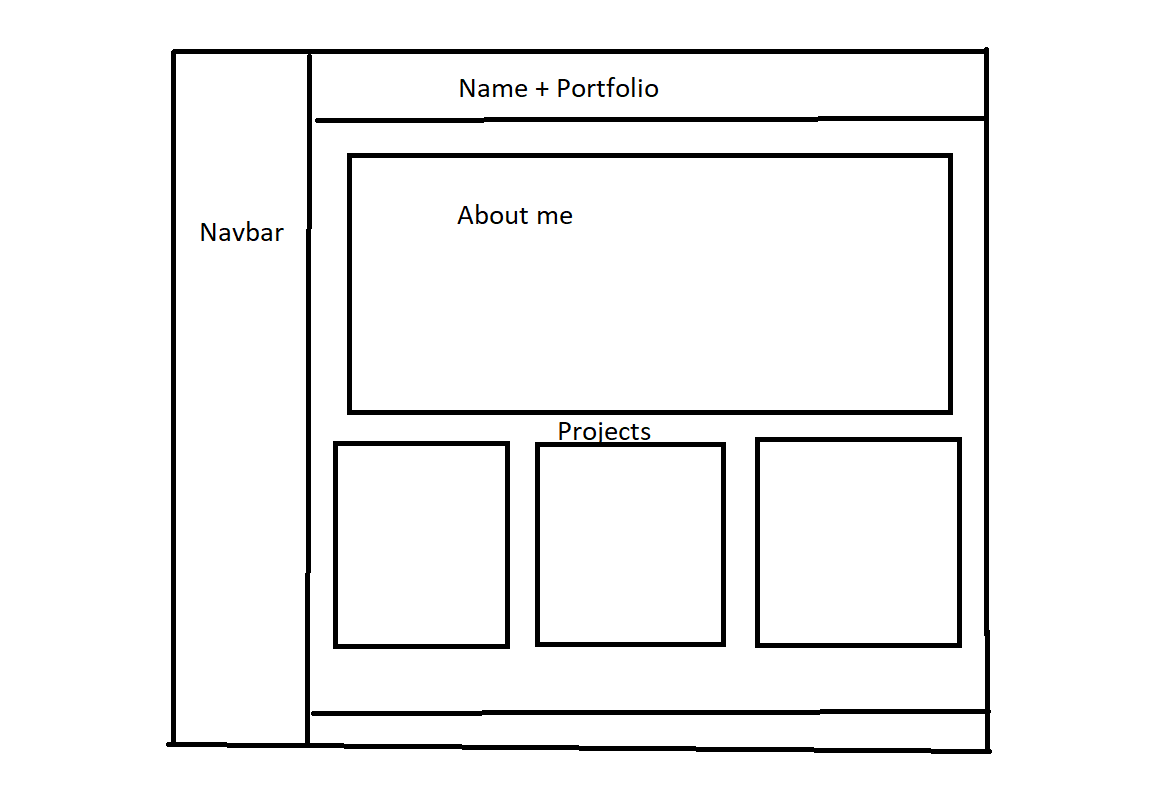
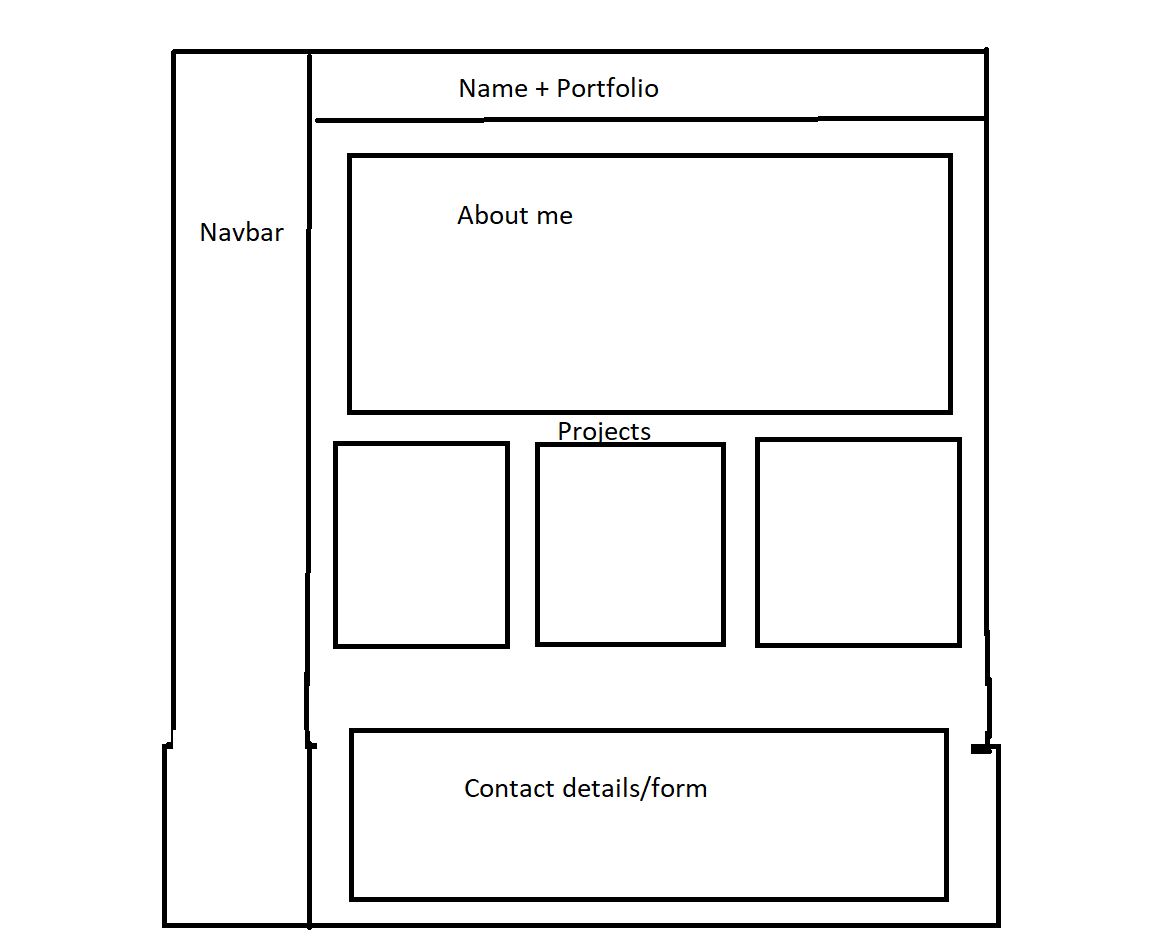
added a form to the layout

diff --git a/Homepage.html b/Homepage.html
@@ -47,6 +47,16 @@
             eu suscipit diam tincidunt eu. 
     </article>
 </section>
+
+
+<section class="contact">
+    <form class="contact">
+        <label for="fname">First Name:</label><br>
+        <input type="text" id="fname" name="fname"><br>
+        <label for="sname">Surname:</label><br>
+        <input type="text" id="sname" name="sname"><br>
+    </form>
+</section>
 <footer>Nice</footer>
 </body>
 </html>

diff --git a/Assets/core.scss b/Assets/core.scss
@@ -20,8 +20,13 @@ article.projects	{
 article.aboutme{
   border-radius: 10px;
   background:#999;
+  color: white;
   padding: 2%;
   margin: 60px;
+}
+form.contact{
+  padding: 5%;
+  
 }
 aside	{
 }
@@ -50,6 +55,9 @@ section.projects{
   flex-direction: row;
 }
 section.aboutme{
+
+}
+section.contact{
 
 }
 p{

diff --git a/Assets/core.css b/Assets/core.css
@@ -19,8 +19,13 @@ article.projects {
 article.aboutme {
   border-radius: 10px;
   background: #999;
+  color: white;
   padding: 2%;
   margin: 60px;
+}
+
+form.contact {
+  padding: 5%;
 }
 
 /*headings------------------------------------------------------------------- */
